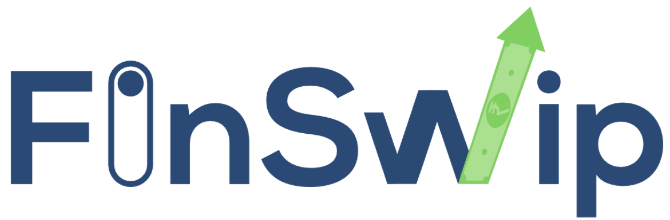
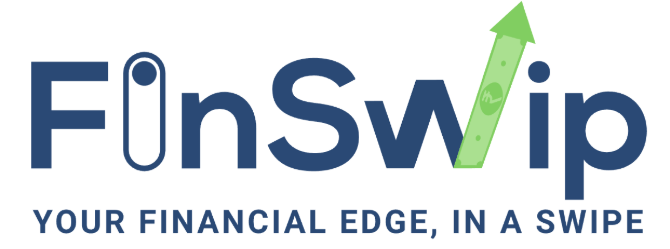
Added Tag Line

diff --git a/styles.css b/styles.css
@@ -35,7 +35,7 @@ body {
     }
     .logo {
         position: relative;
-        margin-top: 40px;
+        margin-top: 1px;
         margin-left: 70px;
     }
     
@@ -43,7 +43,8 @@ body {
     .coming-soon h2 {
         font-size: 4em; /* Larger font size for desktop */
         font-weight: bold;
-        margin-left: 150px
+        margin-left: 150px;
+        margin-top: 10px;
     }
 
     /* App buttons container */
